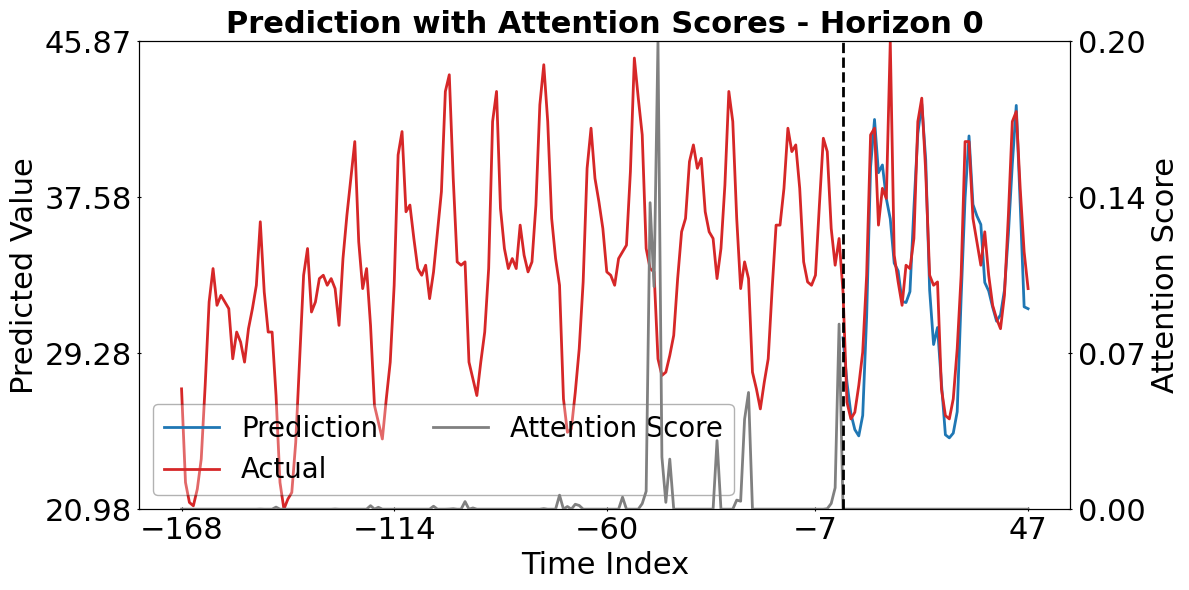
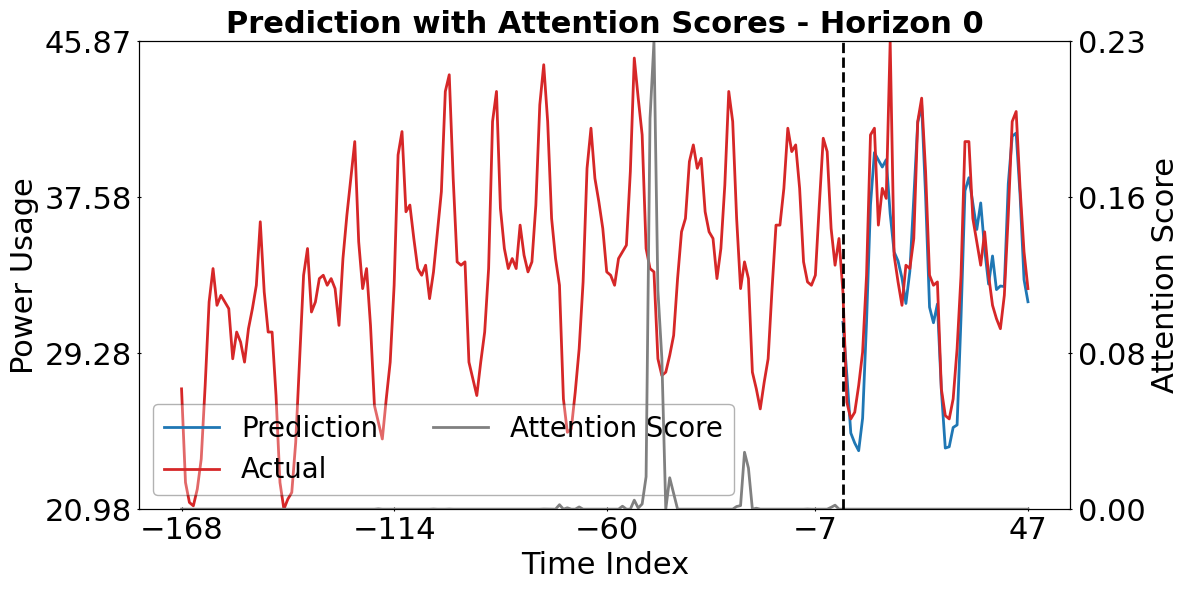
fix: adding axis labels to figure

diff --git a/runner.py b/runner.py
@@ -130,39 +130,39 @@ def main():
     )
     test_dataloader = DataLoader(test_dataset, batch_size=1, collate_fn=custom_collate_fn)
 
-    # Train
-    best_val_loss = np.inf
-    print("Training...")
-    for e in range(cfg.num_epochs):
-        losses = []
-        for i, (x_batch, y_batch, _) in tqdm(
-            enumerate(dataloader), total=len(dataloader), desc=f"Epoch {e+1}/{cfg.num_epochs}"
-        ):
-            x_batch, y_batch = send_data_to_device(
-                input_batch=x_batch, output_batch=y_batch, device=device
-            )
-            pred = tft_model.network(x_batch)
-            loss = loss_fn(pred.prediction, y_batch.target)
+    # # Train
+    # best_val_loss = np.inf
+    # print("Training...")
+    # for e in range(cfg.num_epochs):
+    #     losses = []
+    #     for i, (x_batch, y_batch, _) in tqdm(
+    #         enumerate(dataloader), total=len(dataloader), desc=f"Epoch {e+1}/{cfg.num_epochs}"
+    #     ):
+    #         x_batch, y_batch = send_data_to_device(
+    #             input_batch=x_batch, output_batch=y_batch, device=device
+    #         )
+    #         pred = tft_model.network(x_batch)
+    #         loss = loss_fn(pred.prediction, y_batch.target)
 
-            optimizer.zero_grad()
-            loss.backward()
-            optimizer.step()
+    #         optimizer.zero_grad()
+    #         loss.backward()
+    #         optimizer.step()
 
-            losses.append(loss.item())
-            if np.isnan(loss.item()):
-                raise ValueError("Loss is NAN")
-        avg_train_loss = sum(losses) / len(losses)
+    #         losses.append(loss.item())
+    #         if np.isnan(loss.item()):
+    #             raise ValueError("Loss is NAN")
+    #     avg_train_loss = sum(losses) / len(losses)
 
-        # Validate
-        avg_val_loss = validate(
-            dataloader=val_dataloader, network=tft_model.network, loss_fn=loss_fn, device=device
-        )
-        print(
-            f"Epoch #{e}/{cfg.num_epochs}| Train loss: {avg_train_loss:.4f} | Val loss: {avg_val_loss: .4f}"
-        )
-        if avg_val_loss < best_val_loss:
-            best_val_loss = avg_val_loss
-        tft_model.save()
+    #     # Validate
+    #     avg_val_loss = validate(
+    #         dataloader=val_dataloader, network=tft_model.network, loss_fn=loss_fn, device=device
+    #     )
+    #     print(
+    #         f"Epoch #{e}/{cfg.num_epochs}| Train loss: {avg_train_loss:.4f} | Val loss: {avg_val_loss: .4f}"
+    #     )
+    #     if avg_val_loss < best_val_loss:
+    #         best_val_loss = avg_val_loss
+    #     tft_model.save()
 
     # Test
     print("Testing...")

diff --git a/tft_interp.py b/tft_interp.py
@@ -269,6 +269,8 @@ class Visualizer:
             linestyle="--",
             lw=self.lw,
         )
+        ax.set_xlabel("Time Index", fontsize=self.fontsize)
+        ax.set_ylabel("Power Usage", fontsize=self.fontsize)
 
         ax.legend(
             loc="best", edgecolor="black", fontsize=0.9 * self.fontsize, ncol=2, framealpha=0.3
@@ -309,7 +311,7 @@ class Visualizer:
 
         # Plot predicted values on main y-axis
         ax1.set_xlabel("Time Index", fontsize=self.fontsize)
-        ax1.set_ylabel("Predicted Value", fontsize=self.fontsize)
+        ax1.set_ylabel("Power Usage", fontsize=self.fontsize)
         ax1.plot(x_pred, pred_val, lw=self.lw, color="tab:blue", label="Prediction")
 
         # If actual values are provided, plot them on the same axis
